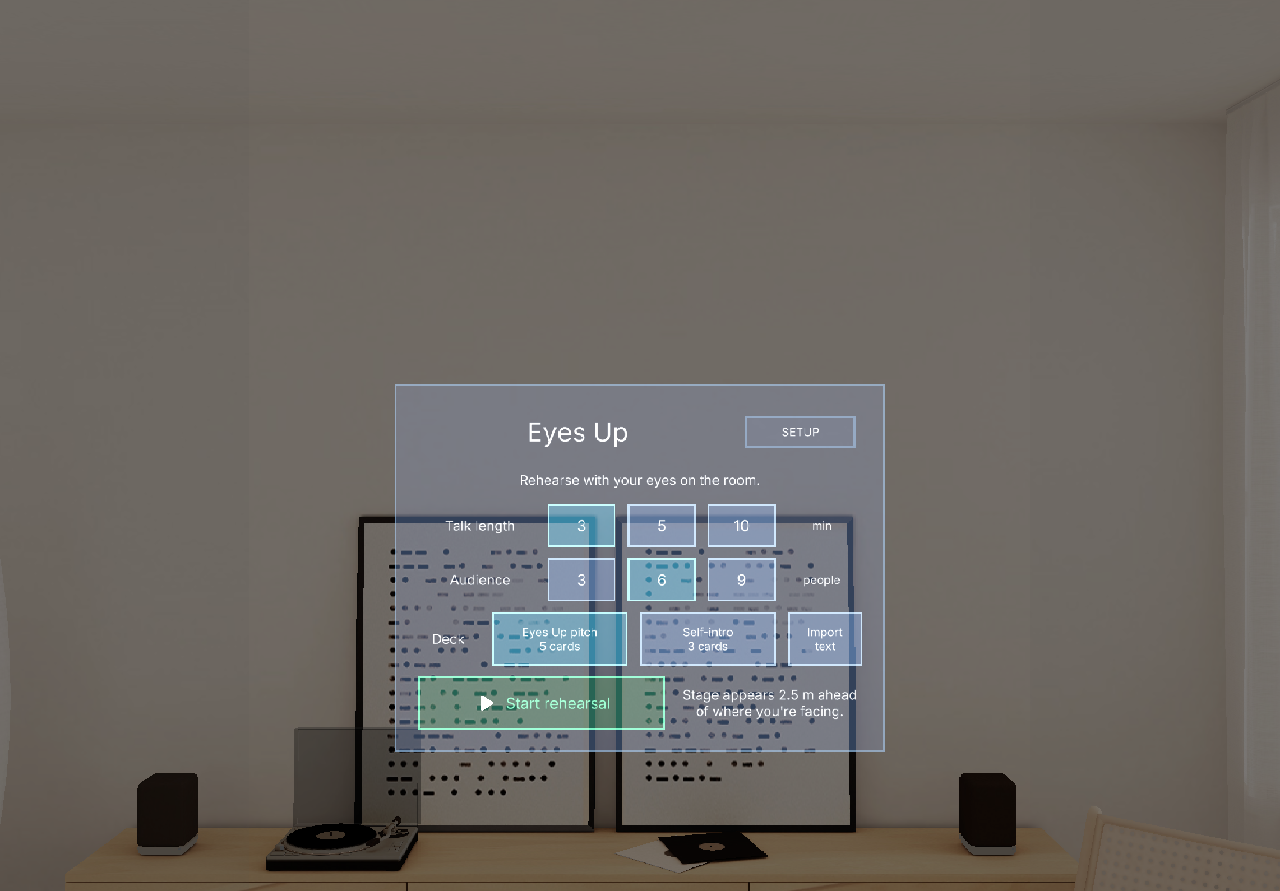
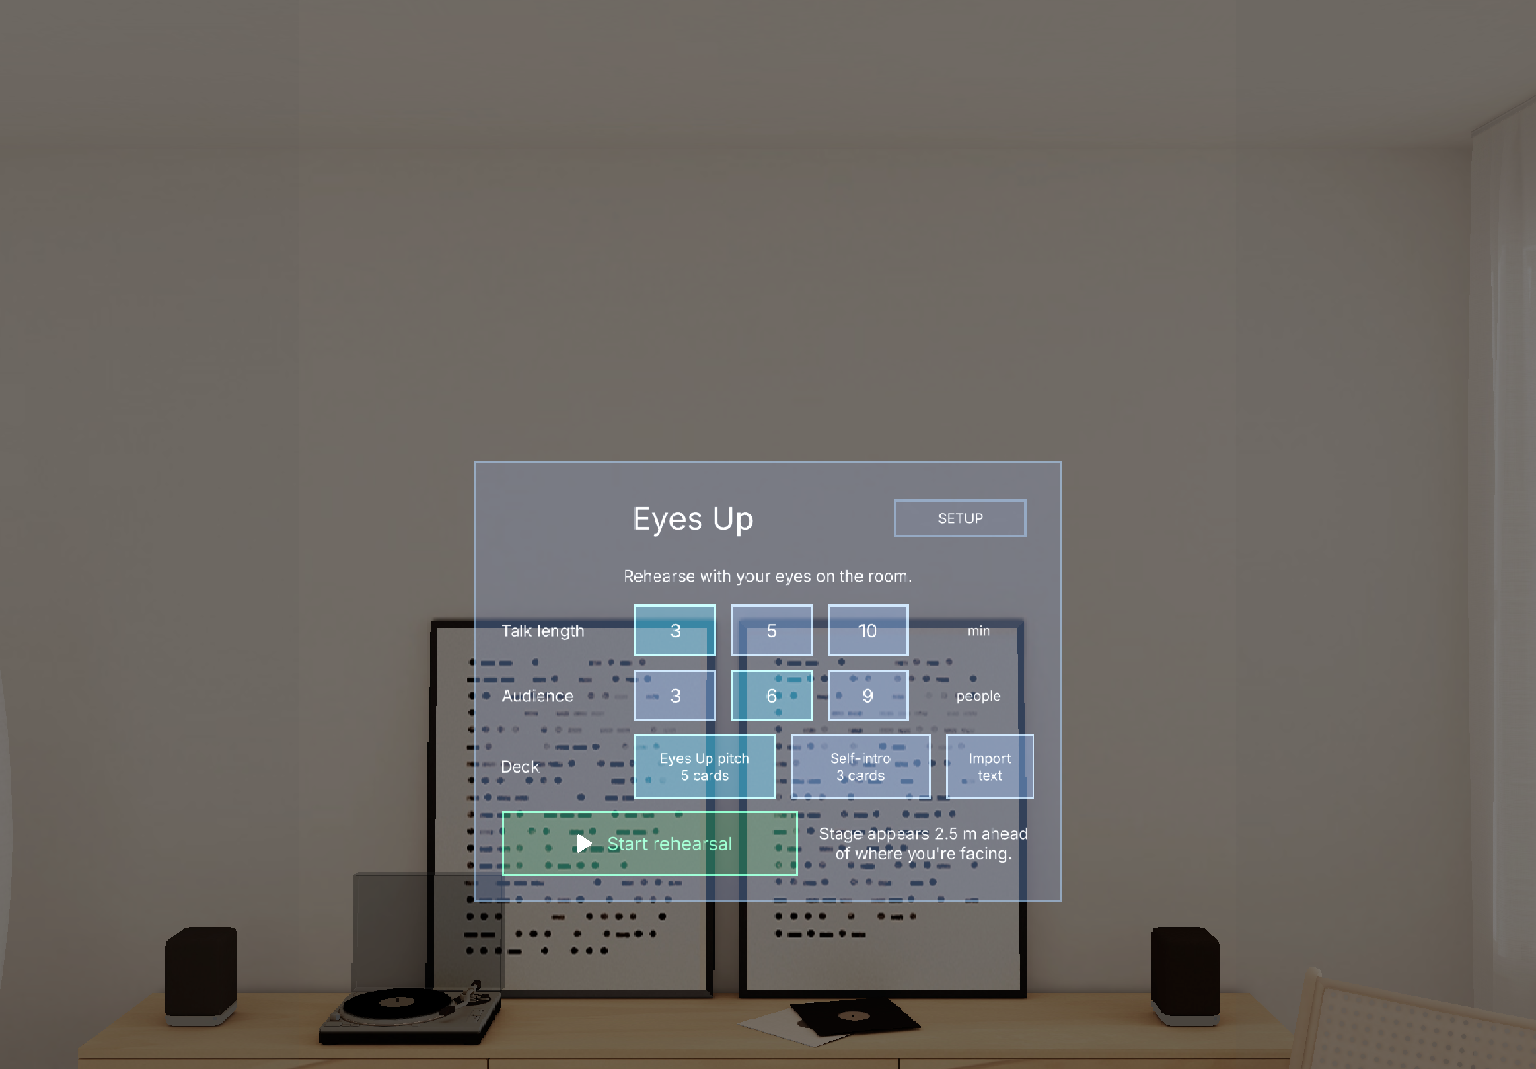
Round 4: align Setup rows, clean Summary tiles and Re-place button, record R4 matrix

diff --git a/Assets/Scripts/SetupPanel.ts b/Assets/Scripts/SetupPanel.ts
@@ -27,6 +27,9 @@ import { BOX_NEUTRAL, Panel, TEXT_LABEL, TEXT_PRIMARY, addBox, addButton, flexRo
 const W = 40;
 const H = 30;
 const DIST = 110;
+/** R4: one label column (left-aligned) and one row width so Talk length / Audience / Deck line up. */
+const LABEL_W = 8;
+const ROW_W = W - 4;
 
 @component
 export class SetupPanel extends BaseScriptComponent {
@@ -58,14 +61,14 @@ export class SetupPanel extends BaseScriptComponent {
     this.lengthSeg = this.segmentRow(c, 'Length', 'Talk length', LENGTH_OPTIONS, 'min', (v) => this.model.setLengthSlider(optionToSlider(LENGTH_OPTIONS, v)), seg);
     this.audienceSeg = this.segmentRow(c, 'Audience', 'Audience', AUDIENCE_OPTIONS, 'people', (v) => this.model.setAudienceSlider(optionToSlider(AUDIENCE_OPTIONS, v)), seg);
     const deckRow = flexRow(c, 'DeckRow', W - 4, 4.4, 1);
-    textRow(deckRow, 'DeckLabel', 'Deck', 'Headline2', 5, 4.4, DIST, TEXT_LABEL);
+    textRow(deckRow, 'DeckLabel', 'Deck', 'Headline2', LABEL_W, 4.4, DIST, TEXT_LABEL).horizontalAlignment = HorizontalAlignment.Left;
     this.deckButtons = DECKS.map((d) => {
       const id = d.id;
       const btn = addButton(
         deckRow,
         `Deck_${id}`,
         `${d.name}\n${d.sections.length} cards`,
-        11,
+        9.5,
         4.4,
         DIST,
         () => {
@@ -140,7 +143,7 @@ export class SetupPanel extends BaseScriptComponent {
     btn: { labelRole: 'Headline1' },
   ): Array<{ value: number; setSelected: (on: boolean) => void }> {
     const row = flexRow(parent, `${name}Row`, W - 4, 3.6, 1);
-    textRow(row, `${name}Label`, label, 'Headline2', 9, 3.6, DIST, TEXT_LABEL);
+    textRow(row, `${name}Label`, label, 'Headline2', LABEL_W, 3.6, DIST, TEXT_LABEL).horizontalAlignment = HorizontalAlignment.Left;
     const segs = options.map((value) => {
       const b = addButton(
         row,
@@ -157,7 +160,7 @@ export class SetupPanel extends BaseScriptComponent {
       );
       return { value, setSelected: b.setSelected };
     });
-    textRow(row, `${name}Unit`, unit, 'Subheadline', 5.5, 3.6, DIST, TEXT_LABEL);
+    textRow(row, `${name}Unit`, unit, 'Subheadline', ROW_W - LABEL_W - 3 * 5.5 - 4, 3.6, DIST, TEXT_LABEL);
     return segs;
   }
 

diff --git a/Assets/Scripts/SummaryPanel.ts b/Assets/Scripts/SummaryPanel.ts
@@ -121,16 +121,16 @@ export class SummaryPanel extends BaseScriptComponent {
     this.timelineBlock = addBlock(c, 'GazeTimeline', TL_W, TL_H);
     // Stat boxes (artifact S5 ④).
     const stats = flexRow(c, 'SummaryStats', W - 6, 6.4, 1.2);
-    this.longestText = addBox(stats, 'LongestText', 'Longest look-away\n0 s', 'Headline1', 23.4, 6.4, DIST, TEXT_PRIMARY, BOX_NEUTRAL);
-    this.cardsText = addBox(stats, 'CardsText', 'Cards · Nudges\n0 · 0', 'Headline1', 19.4, 6.4, DIST, TEXT_PRIMARY, BOX_NEUTRAL);
+    this.longestText = addBox(stats, 'LongestText', 'Longest look-away\n0 s', 'Headline2', 21.4, 6.4, DIST, TEXT_PRIMARY, BOX_NEUTRAL);
+    this.cardsText = addBox(stats, 'CardsText', 'Cards · Nudges\n0 · 0', 'Headline2', 21.4, 6.4, DIST, TEXT_PRIMARY, BOX_NEUTRAL);
     this.tipText = addBox(c, 'TipText', '', 'Headline2', W - 6, 3.2, DIST, TEXT_AMBER, BOX_AMBER);
-    const buttons = flexRow(c, 'SummaryButtons', W - 6, 4.4, 3);
+    const buttons = flexRow(c, 'SummaryButtons', W - 6, 4.4, 2);
     const big = { labelRole: 'Headline2' as const };
     addButton(buttons, 'AgainButton', 'Again', 12, 4.2, DIST, () => this.onAgain?.(), { icon: 'replay', ...big });
     addButton(buttons, 'DoneButton', 'Done', 12, 4.2, DIST, () => this.onDone?.(), { icon: 'check', primary: true, ...big });
-    // Pass 6 (artifact F2): small Re-place, reachable here once the rehearsal is over (the podium
+    // Pass 6 (artifact F2): Re-place (same size and type role as Again / Done), reachable here once the rehearsal is over (the podium
     // hides it during Rehearsal). Seats the stage again where you now face and restarts the talk.
-    addButton(buttons, 'SummaryReplaceButton', 'Re-place', 10, 3.6, DIST, () => this.onReplace?.(), { labelRole: 'Subheadline' });
+    addButton(buttons, 'SummaryReplaceButton', 'Re-place', 12, 4.2, DIST, () => this.onReplace?.(), big);
     // Hidden state is applied in UpdateEvent, after every UIKit element ran OnStart (G3).
     this.createEvent('UpdateEvent').bind(() => {
       if (this.panel.root.enabled !== this.wantVisible) this.panel.root.enabled = this.wantVisible;

diff --git a/docs/spec-matrix.md b/docs/spec-matrix.md
@@ -73,3 +73,17 @@ Live headless MCP drive: scene hierarchy matches plan (SetupPanel, Audience_1..9
 | R3-win-learnings | 03 win | process and learnings narrative for judges | match | devpost/learnings.md: 4 habits mapping, 3 strengths, logic proven / feel unproven table |
 | R3-S1-contrast | 07 S1 | row labels and caption legible | match | new TEXT_LABEL (alpha 0.95 vs 0.7) for Talk length / Audience / Deck / unit / subtitle; caption Subheadline -> Headline2. Live capture fix-r3/setup.png, devpost/screenshots/01-setup-panel.png |
 | R3-R1/R2/R5 | 01 | public repo, YouTube, device | blocked | unchanged (needs YouTube login / Spectacles) |
+
+## Audit round 4 (2026-11-01, independent full conformance)
+
+Live headless MCP: scene roots present (EyesUp, SpectaclesInteractionKit, LEAF), 6 done-criteria LEAF scenarios PASSED (start_places_audience, gaze_fills_halo, neglect_triggers_nudge, next_shows_card_then_pill, dwell_expands_pill, finish_shows_summary), no E/F log lines. `npm run check`: typecheck and lint clean, 129/129 tests pass. Screenshots reviewed: devpost/screenshots/01-setup-panel.png, 06-summary.png.
+
+| id | artifact section | expected | status | evidence |
+|---|---|---|---|---|
+| R4-T | tests | check, typecheck, lint, LEAF 6 | match | 129/129, 6 PASSED live |
+| R4-F-finish | 06 flow C | "Finish?" prompt at target + 30 s | match | EyesUpApp.ts:172, Tunables.ts:49 (reuses cue-card title, documented G8) |
+| R4-S5a | 07 S5 | Summary buttons legible | match | SummaryPanel.ts: Re-place now 12 x 4.2 cm, Headline2 (same as Again/Done), gap 2; live capture fix-r4/summary.png, devpost/screenshots/06-summary.png |
+| R4-S5b | 07 S5 | stat tiles clean | match | SummaryPanel.ts: both tiles 21.4 cm wide (equal, fill the 44 cm row), label Headline1 -> Headline2 so text clears borders; fix-r4/summary.png |
+| R4-S1a | 07 S1 | Setup rows aligned | match | SetupPanel.ts: shared 8 cm left-aligned label column, all three rows 36 cm wide (deck buttons 9.5/9.5/6, unit cell fills the rest); fix-r4/setup.png, devpost/screenshots/01-setup-panel.png |
+| R4-win-warn | win | clean demo | blocked/out of scope (low) | Editor-internal: SceneMaterialBatcher retries and "Failed to load compile data" come from Lens Studio, not project scripts; after recompile + preview restart the log shows no E/F and only 2 editor W lines (network auth, depth format). Not visible in the demo video (Logger panel not shown) |
+| R4-R1/R2/R5 | 01 | public repo, YouTube, device | blocked | needs YouTube login / Spectacles |
